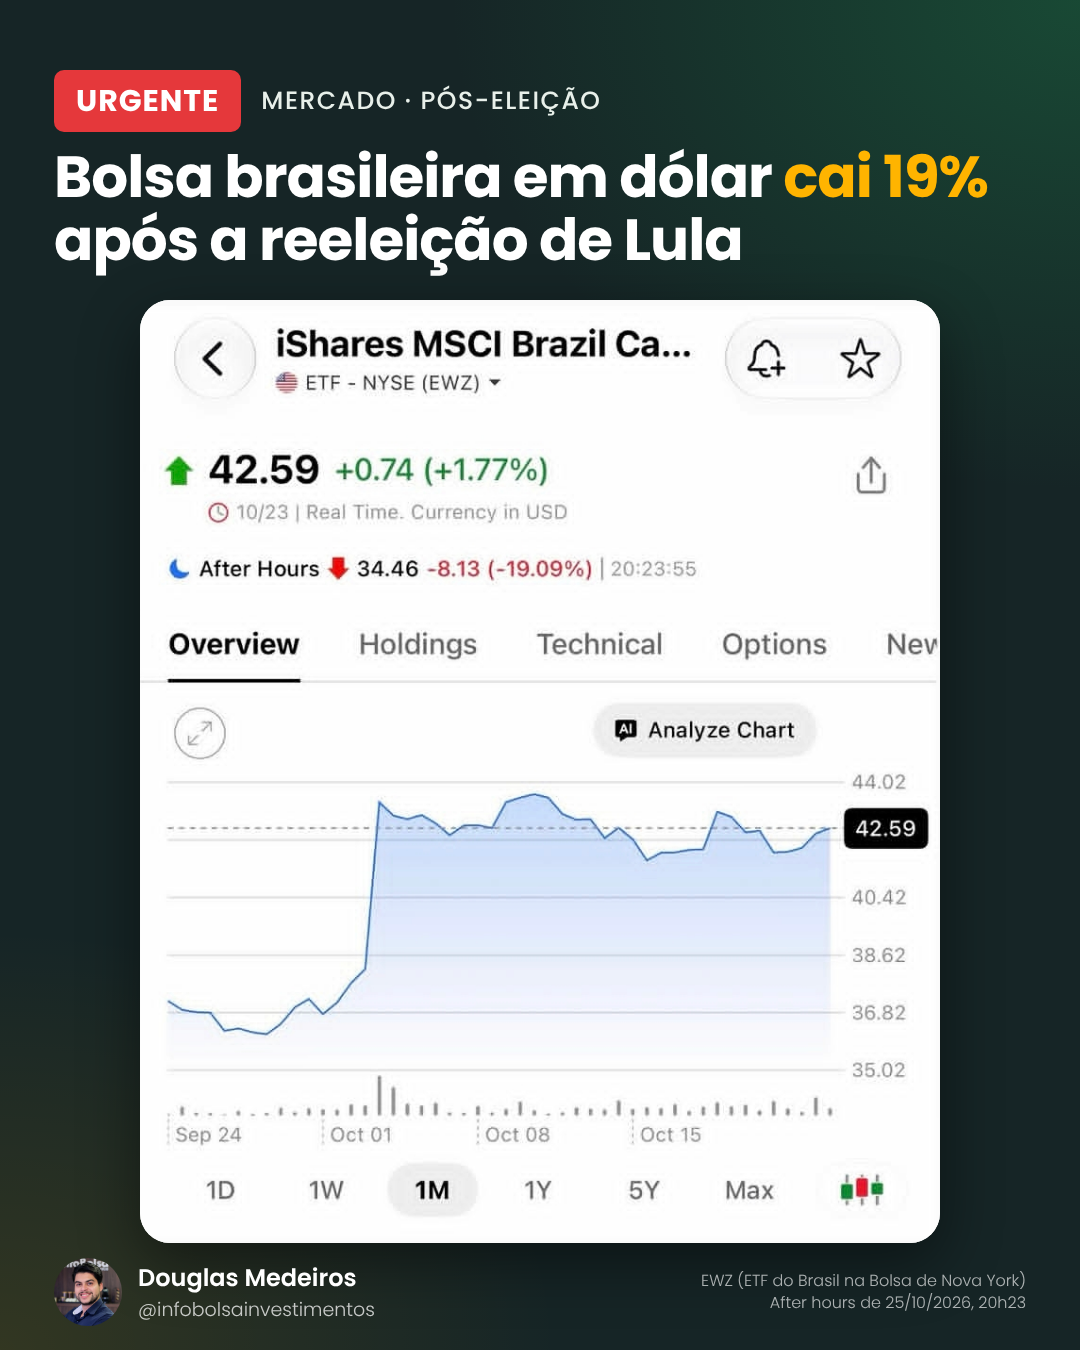
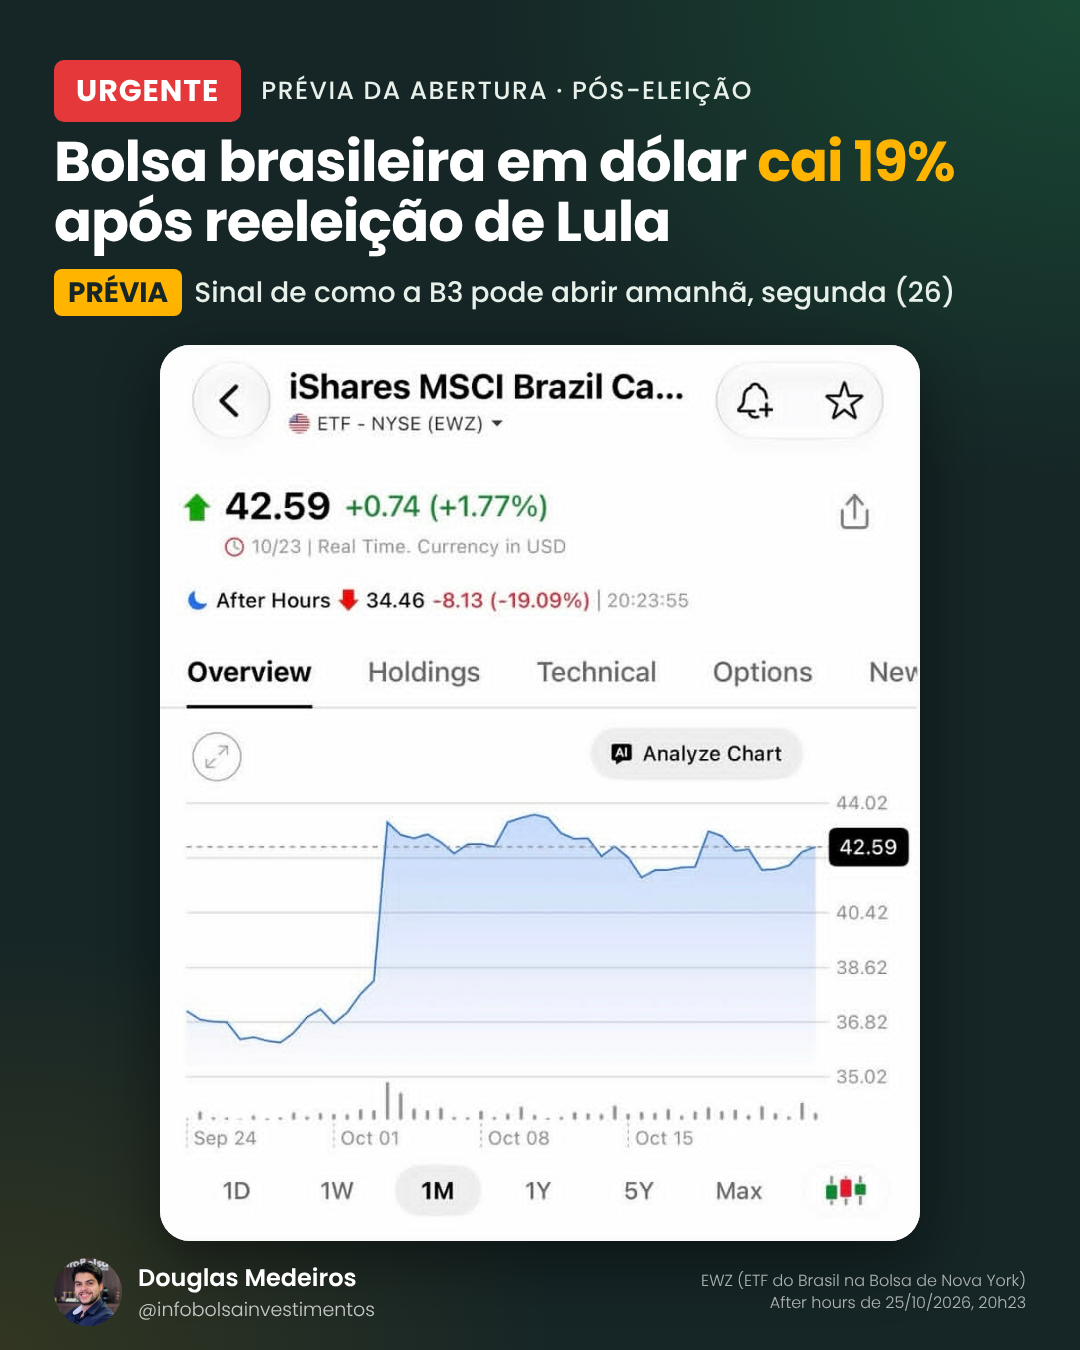
Post EWZ: deixa claro que é prévia da abertura
Claude-Session: https://claude.ai/code/session_01Tzt1qPDfaPVgwnVD7SPhWR

diff --git a/kit/post_ewz.html b/kit/post_ewz.html
@@ -1,0 +1,28 @@
+<!doctype html><html><head><meta charset="utf-8"><style>
+@font-face{font-family:"P";font-weight:300;src:url("fonts/node_modules/@fontsource/poppins/files/poppins-latin-300-normal.woff2")}
+@font-face{font-family:"P";font-weight:500;src:url("fonts/node_modules/@fontsource/poppins/files/poppins-latin-500-normal.woff2")}
+@font-face{font-family:"P";font-weight:600;src:url("fonts/node_modules/@fontsource/poppins/files/poppins-latin-600-normal.woff2")}
+@font-face{font-family:"P";font-weight:700;src:url("fonts/sistema/Poppins-Bold.ttf")}
+*{margin:0;padding:0;box-sizing:border-box}
+html,body{width:1080px;height:1350px;overflow:hidden}
+body{position:relative;font-family:"P",sans-serif;color:#fff;background:radial-gradient(900px 700px at 100% 0%,rgba(30,140,80,.35),transparent 70%),radial-gradient(800px 600px at 0% 100%,rgba(255,180,0,.12),transparent 70%),#162526}
+.top{position:absolute;left:54px;top:60px;display:flex;align-items:center;gap:20px}
+.top b{background:#e5383b;font-weight:700;font-size:30px;padding:8px 22px;border-radius:10px;letter-spacing:1px}
+.top span{font-weight:500;font-size:25px;letter-spacing:1.5px;text-transform:uppercase;color:#e8f0ea}
+h1{position:absolute;left:54px;right:54px;top:132px;font-weight:700;font-size:56px;line-height:1.08;letter-spacing:-1px}
+h1 em{font-style:normal;color:#FFB400}
+.sb{position:absolute;left:54px;right:54px;top:272px;font-weight:500;font-size:28px;color:#e8f0ea}
+.sb b{font-weight:700;color:#162526;background:#FFB400;padding:4px 14px;border-radius:8px;margin-right:12px}
+.cd{position:absolute;left:50%;transform:translateX(-50%);top:345px;width:760px;height:896px;border-radius:30px;overflow:hidden;background:#fff;box-shadow:0 20px 60px rgba(0,0,0,.45)}
+.cd img{width:760px;display:block}
+.ft{position:absolute;left:54px;right:54px;top:1258px;display:flex;align-items:center;gap:16px}
+.ft img{width:68px;height:68px;border-radius:50%;object-fit:cover;object-position:50% 55%}
+.ft .n{font-weight:600;font-size:24px}.ft .h{font-weight:300;font-size:19px;color:rgba(255,255,255,.75)}
+.ft .fo{margin-left:auto;text-align:right;font-weight:300;font-size:16px;line-height:1.4;color:rgba(255,255,255,.65)}
+</style></head><body>
+<div class="top"><b>URGENTE</b><span>Prévia da abertura · Pós-eleição</span></div>
+<h1>Bolsa brasileira em dólar <em>cai 19%</em> após reeleição de Lula</h1>
+<div class="sb"><b>PRÉVIA</b>Sinal de como a B3 pode abrir amanhã, segunda (26)</div>
+<div class="cd"><img src="assets/print-ewz.png"></div>
+<div class="ft"><img src="assets/foto.png"><div><div class="n">Douglas Medeiros</div><div class="h">@infobolsainvestimentos</div></div><div class="fo">EWZ (ETF do Brasil na Bolsa de Nova York)<br>After hours de 25/10/2026, 20h23</div></div>
+</body></html>
